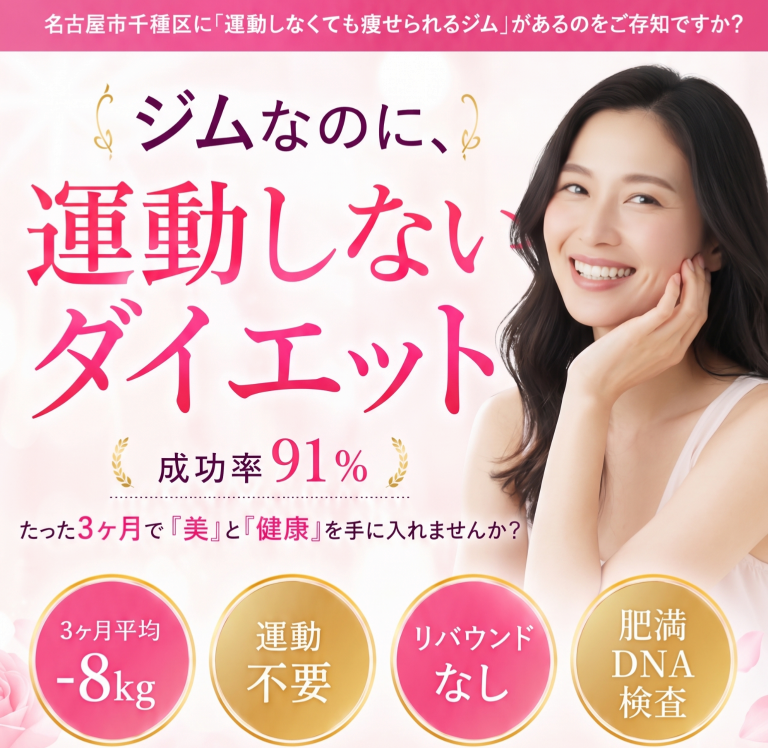
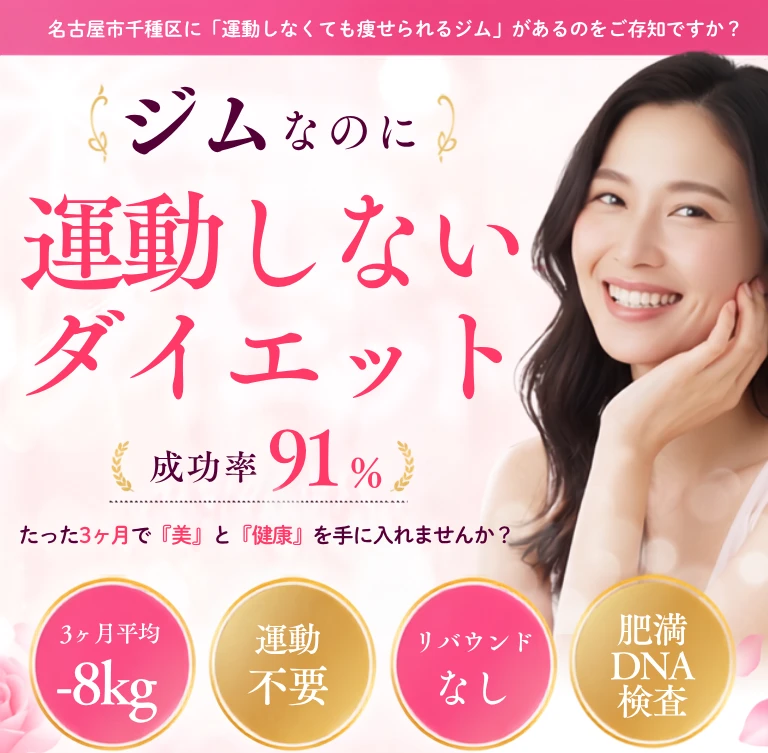
Swap in the supplied first-view artwork and link the map to Google Maps
- images/02-fv.png: replaced with the artwork supplied in chat (768x753,
  drops the trailing 、 after ジムなのに). The height attribute in index.html
  and the README size column follow the new 753px height so the declared
  aspect ratio still matches and the page does not shift on load.
- images/30-shop-map.png is now wrapped in an <a> pointing at Google Maps
  for 〒464-0855 愛知県名古屋市千種区千種通5丁目20-3 サンパレス千種, opening in a
  new tab with rel=noopener. The alt text names the destination so the
  link reads correctly to screen readers. It deliberately does not use the
  js-cta classes — it is an access link, not a conversion button, and
  should not be repointed when the CTA URLs change.

Verified in Chromium: 53 images load, no layout problems, no horizontal
scroll, and no link left on href="#".

Claude-Session: https://claude.ai/code/session_01YDNfDSVnqqEGd8VKB9pYDG

diff --git a/index.html b/index.html
@@ -42,7 +42,7 @@
 
     <!-- ============ ファーストビュー ============ -->
     <section aria-label="ファーストビュー">
-      <img class="lp__img" src="images/02-fv.png" width="768" height="748"
+      <img class="lp__img" src="images/02-fv.png" width="768" height="753"
            alt="何をしても痩せなかったあなたへ。体質から変えるパーソナルダイエット｜HIOH personal GYM">
       <img class="lp__img" src="images/03-fv-under.png" width="768" height="847" loading="lazy"
            alt="初回体験2,980円（税込）・毎月6名様限定のご案内">
@@ -262,8 +262,11 @@
     <section aria-label="店舗情報">
       <img class="lp__img" src="images/29-shop-01.png" width="768" height="438" loading="lazy"
            alt="店舗情報（住所・営業時間・アクセス）">
-      <img class="lp__img" src="images/30-shop-map.png" width="768" height="512" loading="lazy"
-           alt="店舗までのアクセスマップ">
+      <a class="lp__link" href="https://www.google.com/maps/search/?api=1&amp;query=%E3%80%92464-0855%20%E6%84%9B%E7%9F%A5%E7%9C%8C%E5%90%8D%E5%8F%A4%E5%B1%8B%E5%B8%82%E5%8D%83%E7%A8%AE%E5%8C%BA%E5%8D%83%E7%A8%AE%E9%80%9A5%E4%B8%81%E7%9B%AE20-3%20%E3%82%B5%E3%83%B3%E3%83%91%E3%83%AC%E3%82%B9%E5%8D%83%E7%A8%AE"
+         target="_blank" rel="noopener">
+        <img class="lp__img" src="images/30-shop-map.png" width="768" height="512" loading="lazy"
+             alt="Googleマップで見る：HIOH personal GYM（愛知県名古屋市千種区千種通5丁目20-3 サンパレス千種1F）">
+      </a>
       <img class="lp__img" src="images/31-shop-02.png" width="768" height="578" loading="lazy"
            alt="店舗の内観・設備のご案内">
     </section>

diff --git a/README.md b/README.md
@@ -33,7 +33,7 @@ images/           デザイン画像（768px幅）
 | # | ファイル名 | サイズ (px) | Figma レイヤー |
 |---|---|---|---|
 | 1 | `01-header-cta.png` | 768 × 114 | FV_CTA 1 |
-| 2 | `02-fv.png` | 768 × 748 | LP_FVデザイン 1 |
+| 2 | `02-fv.png` | 768 × 753 | LP_FVデザイン（差し替え版・別途支給） |
 | 3 | `03-fv-under.png` | 768 × 847 | FV直下デザイン 768×847 |
 | 4 | `04-cta-banner.png` | 768 × 268 | Figure → Link → FV_MY4_4.webp |
 | 5 | `05-over40-01.png` | 768 × 1042 | 40才を超えてから_01 |
@@ -61,7 +61,7 @@ images/           デザイン画像（768px幅）
 | 27 | `27-faq-01.png` | 768 × 1085 | よくある質問_MY4_01 |
 | 28 | `28-faq-02.png` | 768 × 991 | よくある質問_MY4_02 |
 | 29 | `29-shop-01.png` | 768 × 438 | 店舗情報１ |
-| 30 | `30-shop-map.png` | 768 × 512 | スクリーンショット（地図） |
+| 30 | `30-shop-map.png` | 768 × 512 | スクリーンショット（地図）※Googleマップへのリンク付き |
 | 31 | `31-shop-02.png` | 768 × 578 | 店舗情報２ |
 | 32 | `32-closing.png` | 768 × 457 | ここまで・・・MY4_001 |
 | 33 | `33-message-02.png` | 768 × 657 | 代表の想い 768×1519（下部） |
